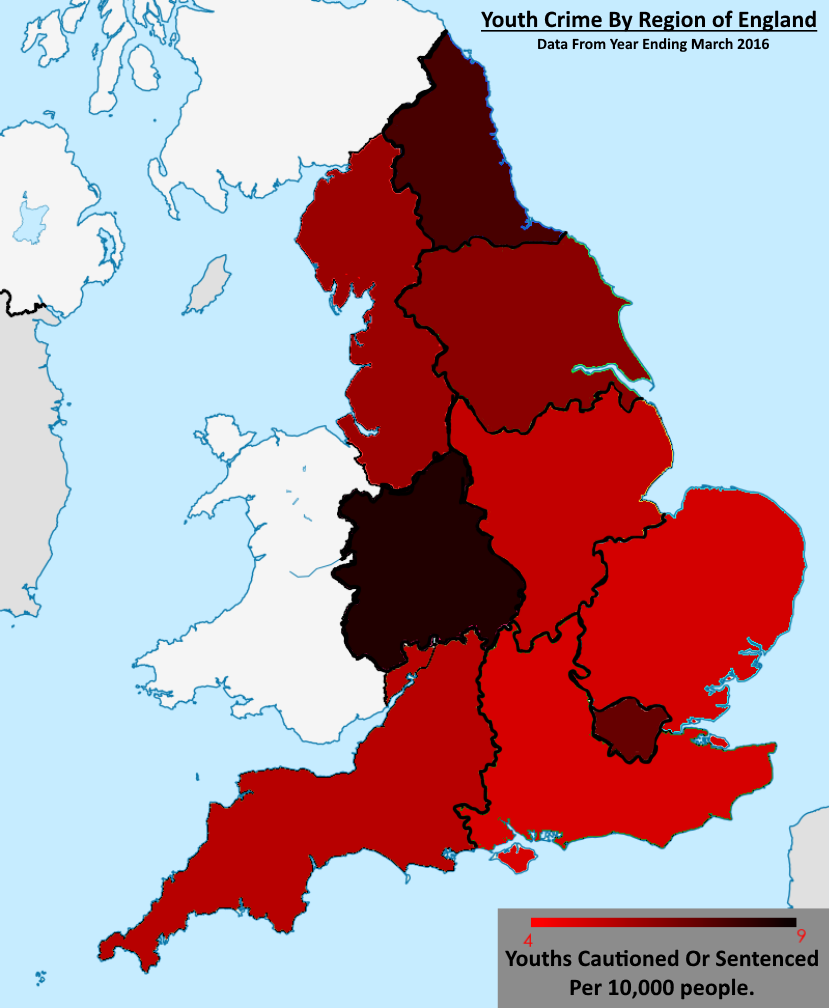
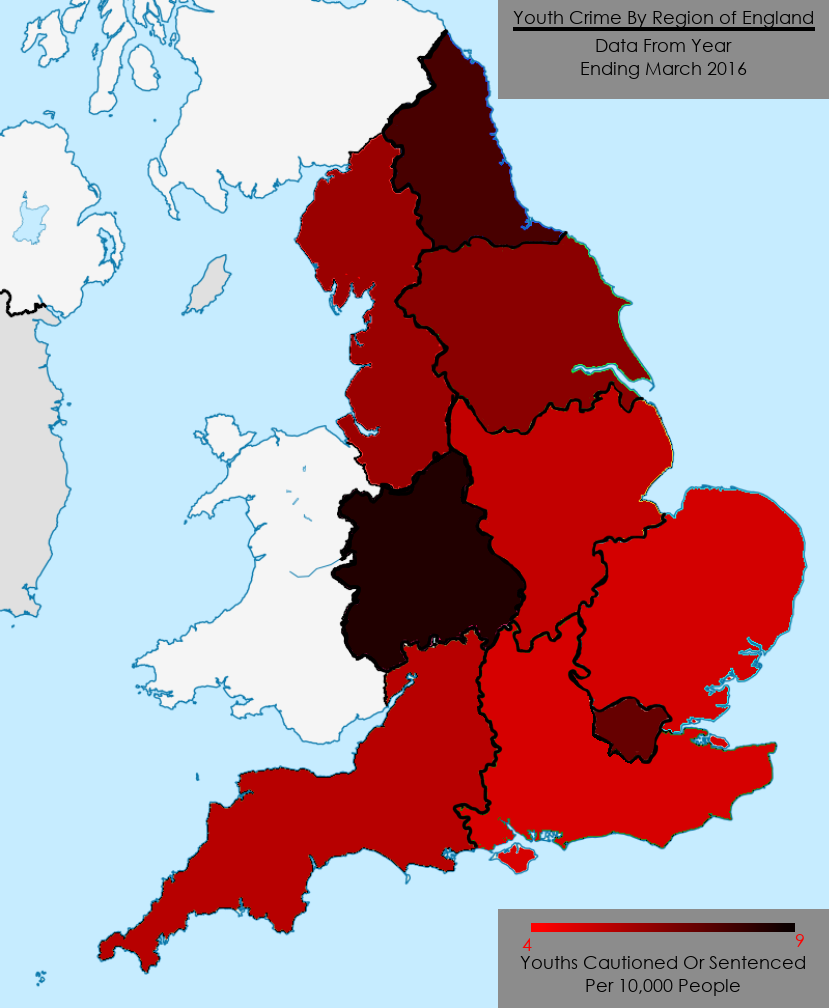
Added Title and subtitled. Added a caption to the scale

Changed region(s): [[0.573, 0.0, 1.0, 0.123], [0.6031, 0.7996, 1.0, 1.0]]

diff --git a/main.py b/main.py
@@ -28,20 +28,26 @@ class MapPy:
         self.scaleMin = 4
         self.scaleMax = 9
 
+        self.fnt = ImageFont.truetype('font.ttf', 18)
+
     def run(self):
         self.values = {}
         for x in self.data:
             name = x['name']
             value = input("Value for " + name + ": ")
-            #value = random.uniform(self.scaleMin,self.scaleMax)
+          #  value = random.uniform(self.scaleMin,self.scaleMax)
             self.values[name] = value
         self.steps = {}
         for area in self.data:
             value = self.values[area['name']]
             i = (((float(value) - self.scaleMin)) / (self.scaleMax - self.scaleMin)) * self.max
             self.steps[area['name']] = i
+        self.title = "Youth Crime By Region of England"
+        self.subTitle = "Data From Year\nEnding March 2016"
+        self.scaleSubText = "Youths Cautioned Or Sentenced\nPer 10,000 People"
         self.process()
         self.drawScale()
+        self.drawTitle()
         self.im.show()
 
     def process(self):
@@ -72,13 +78,29 @@ class MapPy:
         img = img.resize((int(scaleWidth - ((scaleWidth * 0.1) * 2)), int((scaleHeight / 10))), Image.ANTIALIAS)
         iW, iH = img.size
         scaleX = int(scaleWidth / 2 - iW / 2)
-        scaleY = int(scaleHeight * 0.1)
+        scaleY = int(scaleHeight * 0.15)
         scaleArea.paste(img, (scaleX, scaleY))
         d = ImageDraw.Draw(scaleArea)
-        fnt = ImageFont.truetype('font.ttf', 18)
-        d.text((scaleX -(scaleX/4),scaleY + iH),str(self.scaleMin),font=fnt,fill=(255,0,0,255))
-        d.text((scaleX + iW, scaleY + 5), str(self.scaleMax), font=fnt, fill=(255, 0, 0, 255))
+
+        d.text((scaleX -(scaleX/4),scaleY + iH), str(self.scaleMin), font=self.fnt, fill=(255, 0, 0, 255))
+        d.text((scaleX + iW, scaleY + 5), str(self.scaleMax), font=self.fnt, fill=(255, 0, 0, 255))
+
+        textWS, textHS = d.textsize(self.scaleSubText, font=self.fnt)
+        d.multiline_text((scaleWidth/2 - textWS/2,iH * 3 + scaleY), self.scaleSubText, font=self.fnt, fill=(0, 0, 0, 255),
+                         align="center")
         self.im.paste(scaleArea, (self.width - scaleWidth, self.height - scaleHeight))
+
+    def drawTitle(self):
+        titleWidth = int(self.width * 0.4)
+        titleHeight = int(titleWidth * 0.3)
+        titleArea = Image.new("RGB", (titleWidth, titleHeight), (140, 140, 140))
+        d = ImageDraw.Draw(titleArea)
+        textW, textH = d.textsize(self.title, font=self.fnt)
+        d.text((titleWidth/2 - textW/2,5),self.title,font=self.fnt,fill=(0,0,0,255))
+        d.line([titleWidth/2 - textW/2,5 + textH,(titleWidth/2 - textW/2) + textW,5 + textH], fill = (0,0,0,255),width = 4)
+        textWS, textHS = d.textsize(self.subTitle, font=self.fnt)
+        d.multiline_text((titleWidth / 2 - textWS / 2, textH + 10), self.subTitle, font=self.fnt, fill=(0, 0, 0, 255),align="center")
+        self.im.paste(titleArea, (self.width - titleWidth,0))
 
     def interpolate(self, startValue, endValue, stepNumber, lastStepNumber):
         return (endValue - startValue) * stepNumber / lastStepNumber + startValue
